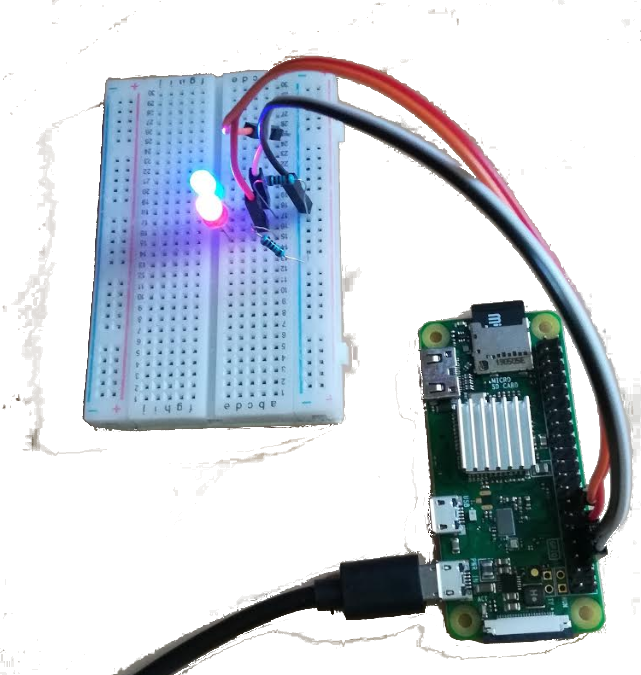
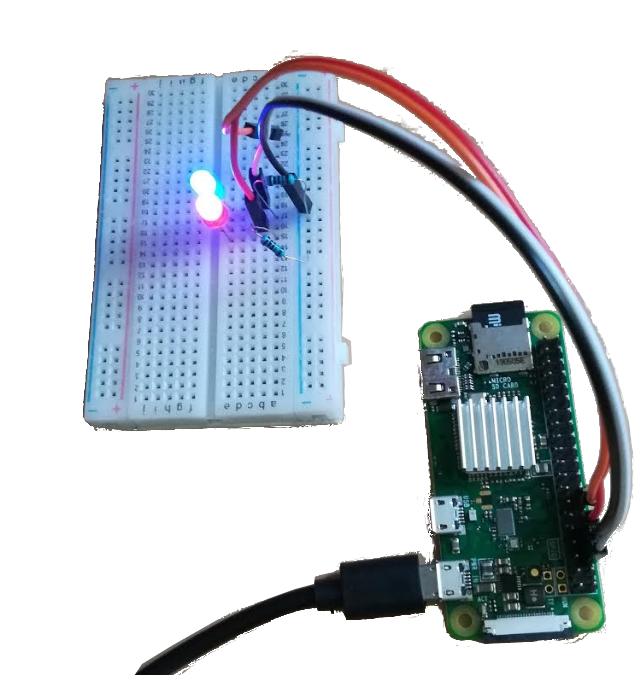
Update README and a new picture

diff --git a/README.md b/README.md
@@ -46,7 +46,7 @@ The key RTOS image is the kernel.img built from above "make". However, it can no
 
 ## Try on Raspberry Pi Zero W
 
-I tried this on a Raspberry Pi Zero W and it works. As soon as the power is turn on, the LED connected to GPIO 16 blinks. Like below picture:
+I tried this on a Raspberry Pi Zero W and it works. As soon as the power is turn on, the LED connected to GPIO 16 blinks. I then did a minor modification on main.c that have two LEDs (adding another one on GPIO 12) blinks together. This is to simulate a police car siren lights with red and blue color. Like below picture:
 
 ![Raspberry Pi Zero W with FreeRTOS](/demo_rpi0w.png)
 
